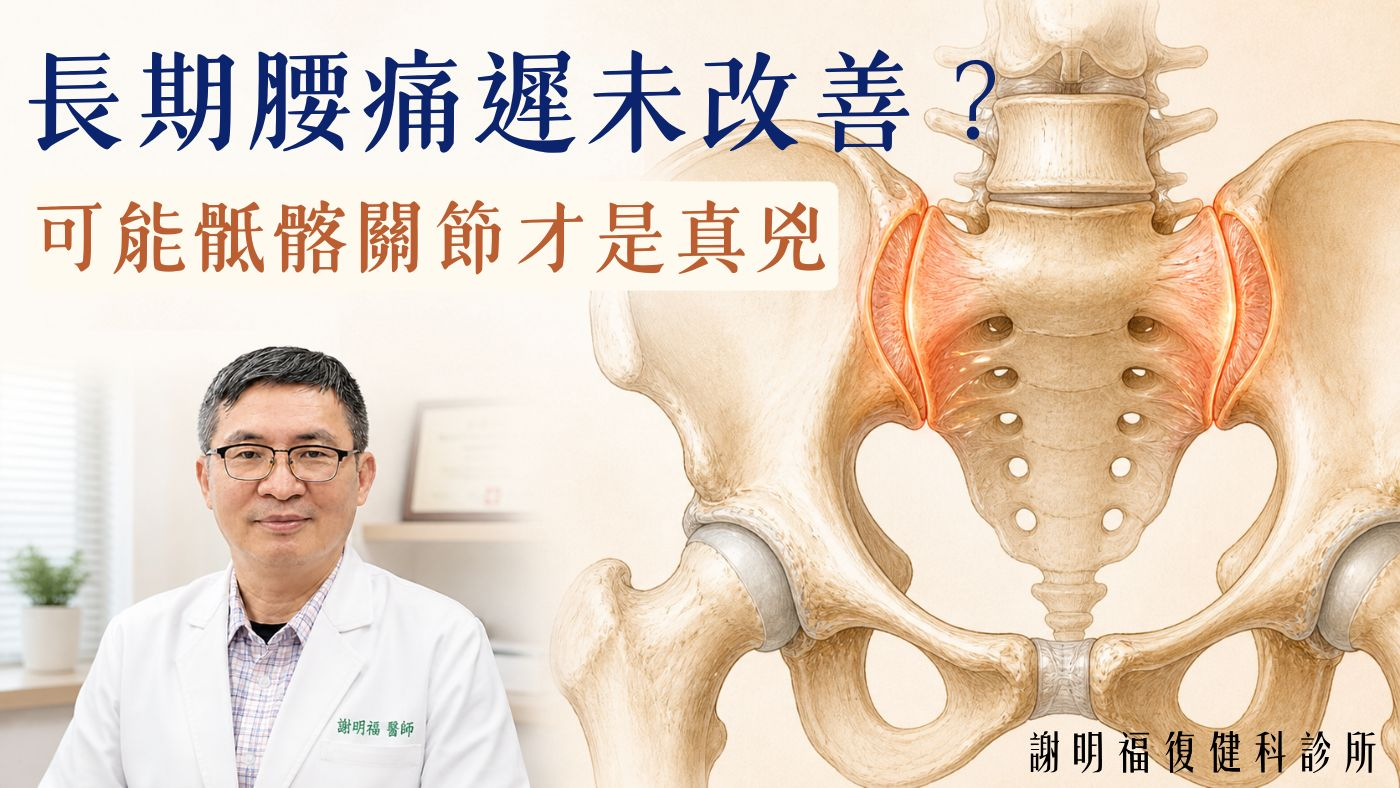
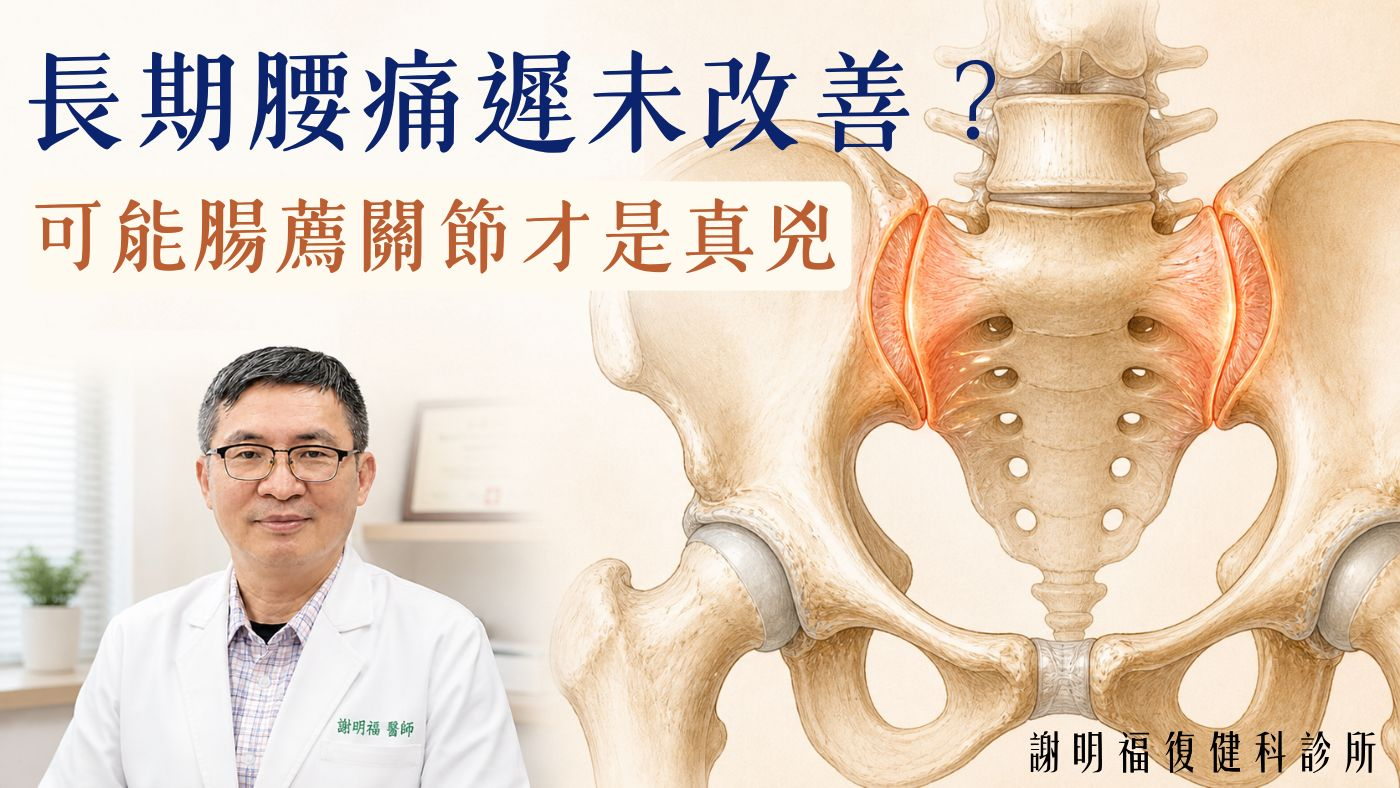
feat: 新增部落格封面圖 Prompt 設計流程與相關技能，更新腸薦關節痛文章標題及描述

Changed region(s): [[0.0307, 0.2132, 0.6143, 0.3655]]

diff --git a/.claude/skills/hero-prompt/SKILL.md b/.claude/skills/hero-prompt/SKILL.md
@@ -1,0 +1,145 @@
+---
+name: hero-prompt
+description: 部落格文章封面圖 Prompt 設計技能。讀取文章 → 分析主題對應解剖部位 → 與使用者討論風格構圖 → 產出最終 JSON prompt → 使用者附上醫師照後呼叫 draw 生圖。觸發詞：「幫這篇文章生成 hero image」「做封面圖」「生成 hero prompt」或指定文章後說「封面」「hero」。
+---
+
+# Hero Prompt Skill — 部落格封面圖 Prompt 設計流程
+
+## 觸發情境
+- 「幫這篇文章生成封面圖」
+- 「做 hero image」「生成 hero prompt」
+- 「設計封面」「封面圖 prompt」
+- 使用者打開或指定一篇 blog 文章後說「封面」「hero」
+
+---
+
+## 設計風格基準（固定不詢問）
+
+| 項目 | 預設值 |
+|------|--------|
+| 尺寸 | 1400×788（橫式） |
+| 背景 | 暖白 #F7F4EF，細緻紙紋 |
+| 主角 | 精確解剖插圖，暖色系醫學教科書風格 |
+| 醫師 | 左下去背合成，使用者事後提供照片 |
+| 文字 | **圖上不放任何文字**（使用者自行後製加上） |
+| Badge | 無 |
+| 禁止文字 | 三峽、鶯歌、復健科診所、任何診斷預後保證字眼 |
+| 色盤 | `#F7F4EF` `#1A1A1A` `#C8783A` `#8B6B4A` |
+| 氣氛 | trustworthy, premium, calm — NOT flashy or neon |
+
+---
+
+## 執行流程（共四步）
+
+---
+
+### STEP 1 — 讀取文章
+
+讀取使用者指定的文章（通常在 `blogdrafts/` 或 `src/content/blog/`）。
+
+重點擷取：
+- **主題**：什麼部位、什麼症狀、什麼機制
+- **核心主張**：文章想傳遞的一句話
+- **目標讀者**：患者自述症狀為何（用於決定解剖插圖角度）
+
+---
+
+### STEP 2 — 確認解剖插圖主角
+
+根據文章主題，決定解剖插圖的內容，例如：
+
+| 文章主題 | 解剖插圖建議 |
+|----------|-------------|
+| 骶髂關節痛 | 骨盆正面，骶髂關節接觸面橘色 highlight |
+| 髕股關節症候群 | 膝關節側面或前面，髕骨追蹤路徑、軟骨接觸面 coral 標示 |
+| 頸椎痠痛 | 頸椎側面剖面，椎間盤與神經根 |
+| 足底筋膜炎 | 足部內側剖面，跟骨附著點發炎處 |
+| 肩關節 | 肩關節前面或後面，旋轉肌群或肩峰下空間 |
+
+列出建議後，**詢問使用者確認或調整視角／部位**，再進入 STEP 3。
+
+---
+
+### STEP 3 — 輸出 JSON Prompt 並討論
+
+輸出初版 JSON prompt，格式如下：
+
+```json
+{
+  "article": "<文章標題>",
+  "style": "clean medical editorial, light airy aesthetic, high-end health magazine cover",
+  "size": "1400x788",
+  "background": {
+    "base": "warm off-white #F7F4EF",
+    "texture": "subtle paper grain, very light",
+    "accent": "soft warm beige gradient fading toward left edge"
+  },
+  "main_subject": {
+    "type": "anatomical illustration",
+    "content": "<精確解剖部位描述>",
+    "style": "premium medical textbook illustration — warm anatomical tones: bone ivory/beige, cartilage soft amber, <患部> highlighted with translucent warm coral-orange glow, fine linework details, no labels or text",
+    "position": "right 55% of canvas, vertically centered, slightly oversized, partially cropped at right edge",
+    "size": "dominant"
+  },
+  "doctor": {
+    "source": "provided as image input with this prompt",
+    "background": "fully removed — clean cutout, no remnants of original background",
+    "position": "bottom-left, anchored to left and bottom edge",
+    "size": "occupies ~45% canvas height, natural proportion",
+    "treatment": "crisp cutout edges, composited onto warm off-white background, subtle ambient shadow at feet for grounding"
+  },
+  "typography": null,
+  "badge": null,
+  "color_palette": ["#F7F4EF", "#1A1A1A", "#C8783A", "#8B6B4A"],
+  "mood": "trustworthy, premium, calm — NOT flashy or neon",
+  "no_text_in_image": true
+}
+```
+
+提案後，主動確認以下兩點：
+
+1. 解剖插圖視角與 highlight 部位是否正確？
+2. 醫師照片是否由使用者另行提供（預設是），還是沿用 `public/images/dr-hsiehmf.jpg`？
+
+> 其餘設計元素（背景、色調、氣氛）以基準值為主，無需詢問，除非使用者主動提出。
+
+---
+
+### STEP 4 — 等待使用者提供醫師照並呼叫 draw
+
+**必須等使用者附上醫師照片後**，才呼叫 draw skill。
+
+照片可能是：
+- 直接在對話中上傳圖片（→ 以 `--edit` 傳入 draw）
+- 指定檔案路徑（→ 直接使用）
+
+呼叫指令：
+
+```bash
+python .claude/skills/draw/draw.py \
+  "<將 JSON prompt 轉譯為英文自然語言 prompt>" \
+  --size 1536x1024 \
+  --quality low \
+  --name <article-slug>-hero \
+  --outdir public/images/blog \
+  --edit <醫師照片路徑>
+```
+
+**Prompt 轉譯規則（JSON → 英文自然語言）：**
+- 從 `main_subject` 展開解剖描述，強調暖色系、精確解剖細節
+- 明確說明醫師照去背後合成左下
+- 結尾加：`No text, labels, or typography anywhere in the image. Clean, premium, trustworthy medical editorial style.`
+
+**生成後：**
+1. 顯示圖片給使用者
+2. 詢問是否調整，或升畫質（`--quality medium`）
+
+---
+
+## 注意事項
+
+- 圖上**絕對不放任何文字**，使用者會自行在設計軟體加上
+- 解剖插圖必須醫學上正確，避免錯誤示意
+- 醫師去背要乾淨，不可有原背景殘留
+- 符合醫療法：不做療效保證、不寫誤診字眼、不承諾預後
+- 整個流程對話式進行，STEP 2 確認後再出 JSON，JSON 確認後再等照片

diff --git a/.claude/commands/hero-prompt.md b/.claude/commands/hero-prompt.md
@@ -1,0 +1,5 @@
+# Blog Hero Image Prompt 設計流程
+
+讀取部落格文章 → 分析解剖主題 → 與使用者討論構圖 → 輸出 JSON prompt → 使用者提供醫師照後呼叫 draw 生圖。
+
+詳細流程請參閱 `.claude/skills/hero-prompt/SKILL.md`。
